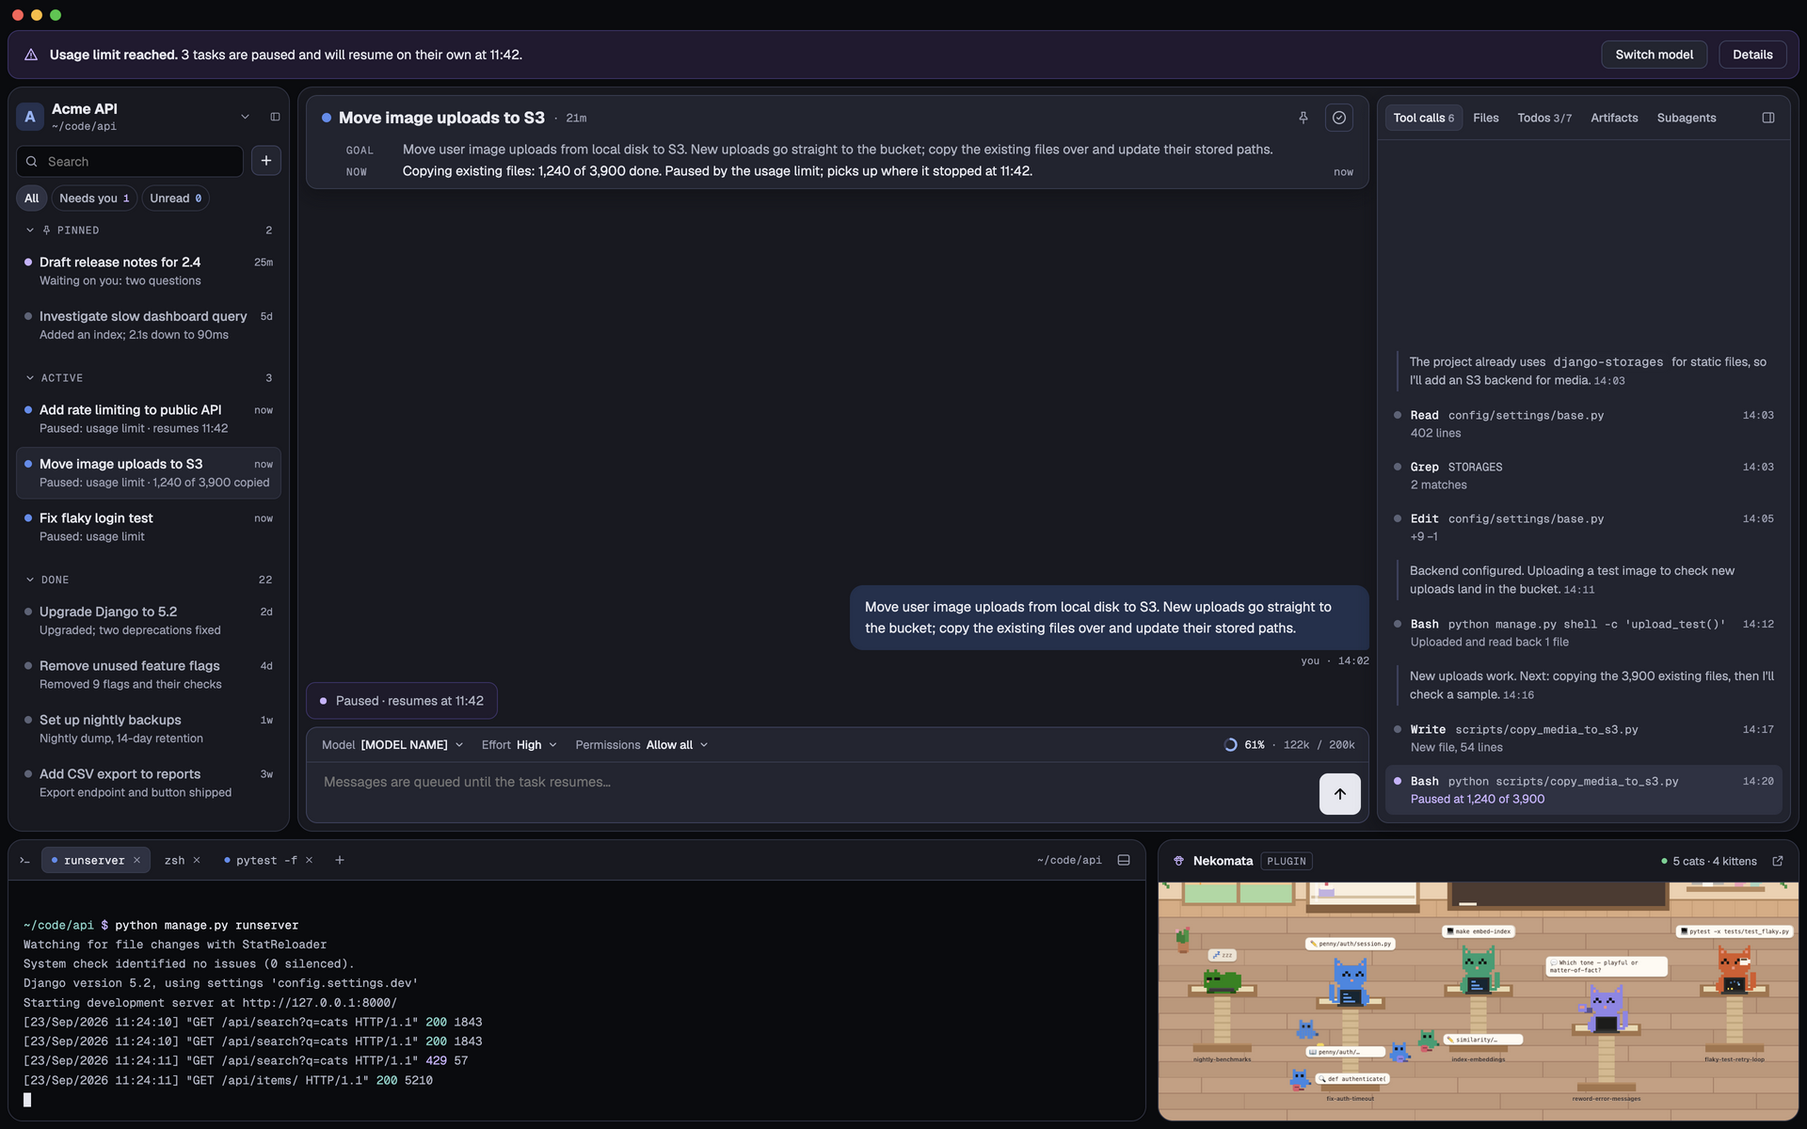
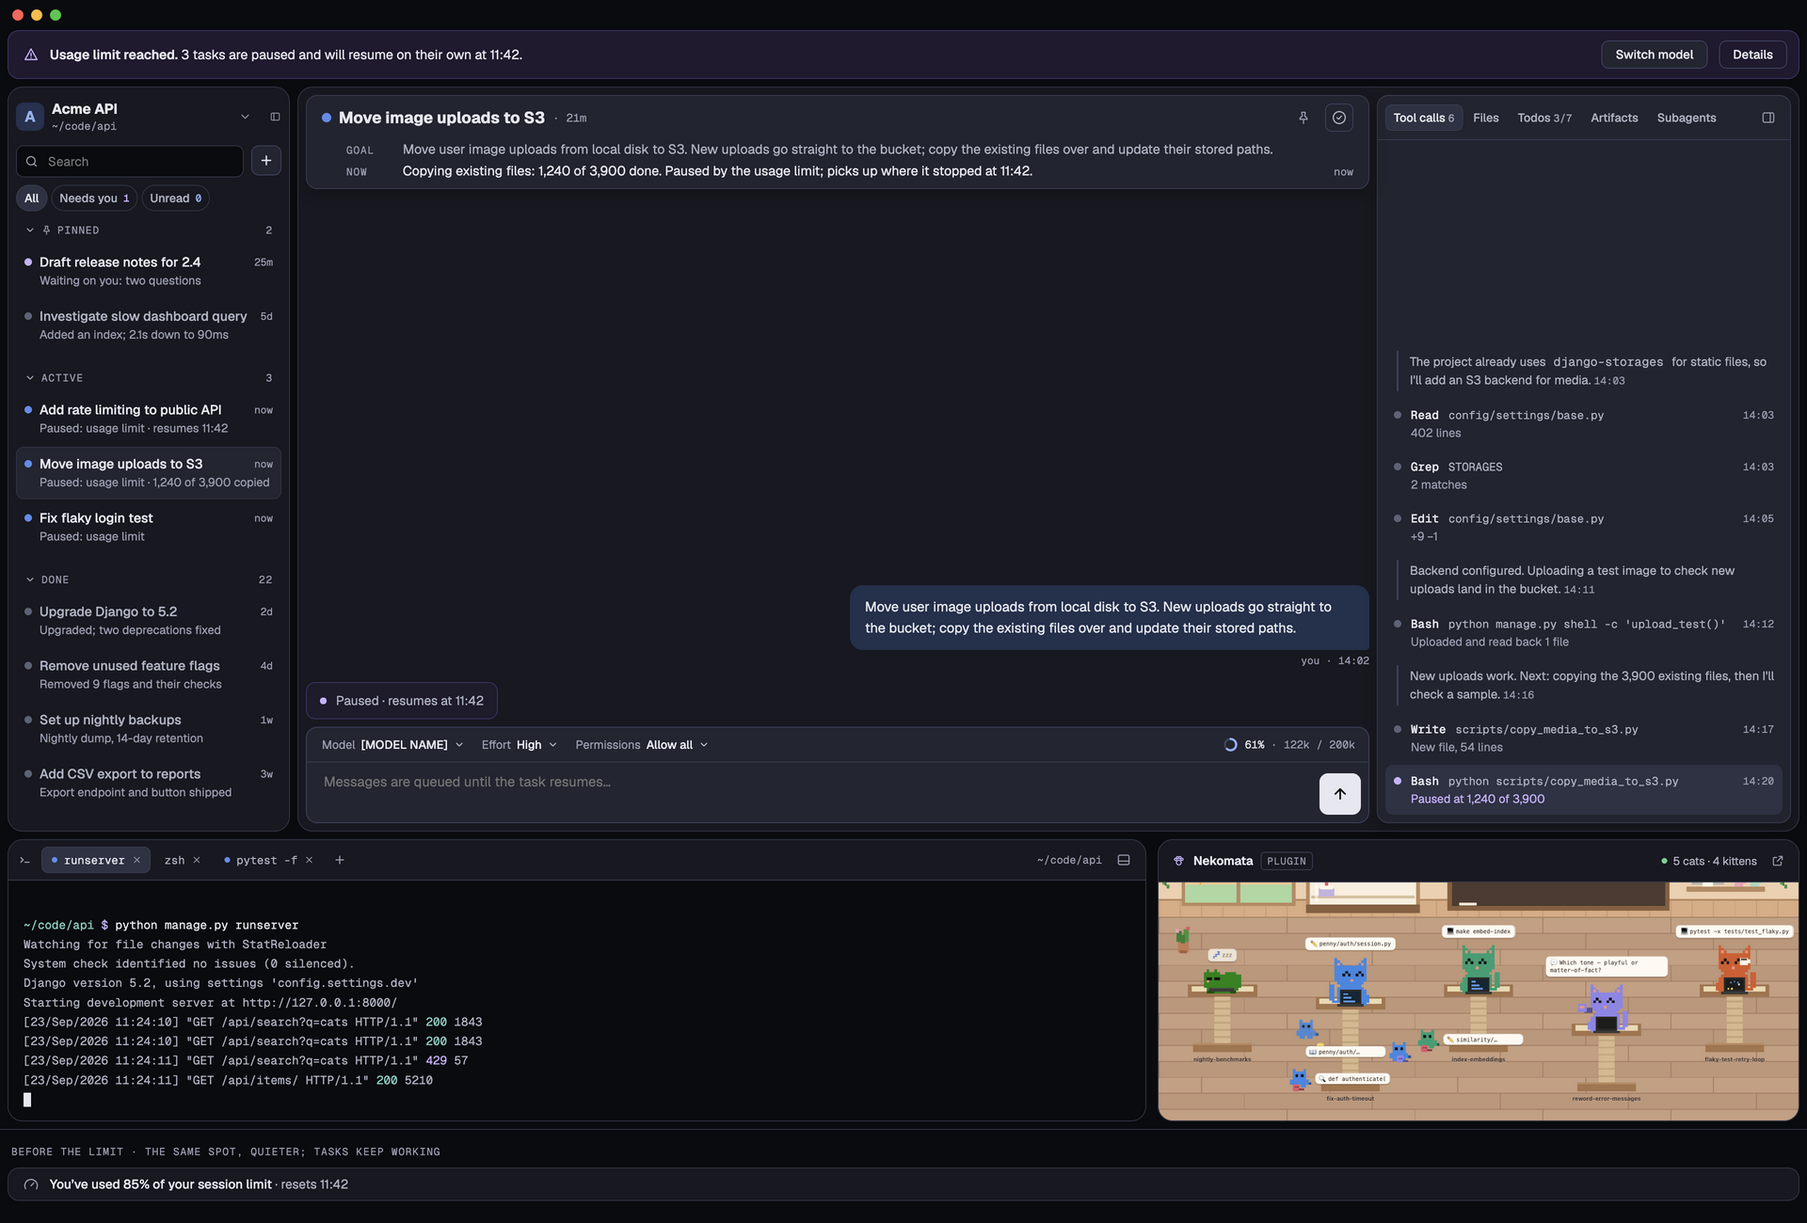
#281: Design the account block and the approaching-limit note

Changed region(s): [[0.0, 0.0, 1.0, 1.0]]

diff --git a/docs/design/html/21-settings.html b/docs/design/html/21-settings.html
@@ -246,42 +246,35 @@ a{color:#8FB2F5}a:hover{color:#B5CBF8}
 <div role="dialog" aria-label="Settings" style="width: 980px; height: 700px; box-sizing: border-box; background: #222430; border: 1px solid #3D425E; border-radius: 16px; box-shadow: 0 30px 80px rgba(0,0,0,0.6); display: flex; overflow: hidden">
 <nav style="flex-shrink: 0; width: 220px; box-sizing: border-box; padding: 20px 12px; background: #181921; border-right: 1px solid #373C4F; display: flex; flex-direction: column; gap: 2px">
 <div style="padding: 0 12px 10px 12px; font-size: 18px; font-weight: 700; color: #E6E8F0">Settings</div>
-<button type="button" aria-current="false" style="display: flex; width: 100%; height: 34px; align-items: center; padding: 0 12px; background: transparent; border: 0; border-radius: 7px; font: inherit; font-size: 13.5px; font-weight: 500; color: #AEB3C3; text-align: left; cursor: pointer">General</button><button type="button" aria-current="page" style="display: flex; width: 100%; height: 34px; align-items: center; padding: 0 12px; background: #2E3243; border: 0; border-radius: 7px; font: inherit; font-size: 13.5px; font-weight: 600; color: #E6E8F0; text-align: left; cursor: pointer">Agent</button><button type="button" aria-current="false" style="display: flex; width: 100%; height: 34px; align-items: center; padding: 0 12px; background: transparent; border: 0; border-radius: 7px; font: inherit; font-size: 13.5px; font-weight: 500; color: #AEB3C3; text-align: left; cursor: pointer">Notifications</button><button type="button" aria-current="false" style="display: flex; width: 100%; height: 34px; align-items: center; padding: 0 12px; background: transparent; border: 0; border-radius: 7px; font: inherit; font-size: 13.5px; font-weight: 500; color: #AEB3C3; text-align: left; cursor: pointer">Appearance</button><button type="button" aria-current="false" style="display: flex; width: 100%; height: 34px; align-items: center; padding: 0 12px; background: transparent; border: 0; border-radius: 7px; font: inherit; font-size: 13.5px; font-weight: 500; color: #AEB3C3; text-align: left; cursor: pointer">Keyboard</button><button type="button" aria-current="false" style="display: flex; width: 100%; height: 34px; align-items: center; padding: 0 12px; background: transparent; border: 0; border-radius: 7px; font: inherit; font-size: 13.5px; font-weight: 500; color: #AEB3C3; text-align: left; cursor: pointer">Plugins</button>
+<button type="button" aria-current="page" style="display: flex; width: 100%; height: 34px; align-items: center; padding: 0 12px; background: #2E3243; border: 0; border-radius: 7px; font: inherit; font-size: 13.5px; text-align: left; cursor: pointer; font-weight: 600; color: #E6E8F0">General</button><button type="button" aria-current="false" style="display: flex; width: 100%; height: 34px; align-items: center; padding: 0 12px; background: transparent; border: 0; border-radius: 7px; font: inherit; font-size: 13.5px; text-align: left; cursor: pointer; font-weight: 500; color: #AEB3C3">Agent</button><button type="button" aria-current="false" style="display: flex; width: 100%; height: 34px; align-items: center; padding: 0 12px; background: transparent; border: 0; border-radius: 7px; font: inherit; font-size: 13.5px; text-align: left; cursor: pointer; font-weight: 500; color: #AEB3C3">Notifications</button><button type="button" aria-current="false" style="display: flex; width: 100%; height: 34px; align-items: center; padding: 0 12px; background: transparent; border: 0; border-radius: 7px; font: inherit; font-size: 13.5px; text-align: left; cursor: pointer; font-weight: 500; color: #AEB3C3">Appearance</button><button type="button" aria-current="false" style="display: flex; width: 100%; height: 34px; align-items: center; padding: 0 12px; background: transparent; border: 0; border-radius: 7px; font: inherit; font-size: 13.5px; text-align: left; cursor: pointer; font-weight: 500; color: #AEB3C3">Keyboard</button><button type="button" aria-current="false" style="display: flex; width: 100%; height: 34px; align-items: center; padding: 0 12px; background: transparent; border: 0; border-radius: 7px; font: inherit; font-size: 13.5px; text-align: left; cursor: pointer; font-weight: 500; color: #AEB3C3">Plugins</button><button type="button" aria-current="false" style="display: flex; width: 100%; height: 34px; align-items: center; padding: 0 12px; background: transparent; border: 0; border-radius: 7px; font: inherit; font-size: 13.5px; text-align: left; cursor: pointer; font-weight: 500; color: #AEB3C3">Control</button>
 <div style="padding: 18px 12px 6px 12px; font-family: 'Geist Mono', ui-monospace, monospace; font-size: 11px; letter-spacing: 0.08em; text-transform: uppercase; color: #999DB0">Workspace</div>
 <button type="button" aria-current="false" style="display: flex; width: 100%; height: 34px; align-items: center; padding: 0 12px; background: transparent; border: 0; border-radius: 7px; font: inherit; font-size: 13.5px; font-weight: 500; color: #AEB3C3; text-align: left; cursor: pointer">Acme API</button>
 </nav>
 <div style="flex-grow: 1; min-width: 0; padding: 22px 32px; display: flex; flex-direction: column; overflow: hidden">
-<div style="display: flex; align-items: center; justify-content: space-between; padding-bottom: 6px"><h2 style="margin: 0; font-size: 20px; font-weight: 700; color: #E6E8F0">Agent</h2><button type="button" aria-label="Close settings" title="Close settings" style="flex-shrink: 0; display: flex; align-items: center; justify-content: center; width: 30px; height: 30px; background: transparent; border: 0; border-radius: 7px; color: #999DB0; cursor: pointer"><svg width="16" height="16" viewBox="0 0 24 24" fill="none" stroke="currentColor" stroke-width="1.8" stroke-linecap="round" stroke-linejoin="round"><path d="M6 6l12 12M18 6 6 18"></path></svg></button></div>
-<p style="margin: 0 0 6px 0; font-size: 13px; color: #999DB0">Defaults for new tasks. Each task can change these from its input bar. Changes save automatically.</p>
+<div style="display: flex; align-items: center; justify-content: space-between; padding-bottom: 6px"><h2 style="margin: 0; font-size: 20px; font-weight: 700; color: #E6E8F0">General</h2><button type="button" aria-label="Close settings" title="Close settings" style="flex-shrink: 0; display: flex; align-items: center; justify-content: center; width: 30px; height: 30px; background: transparent; border: 0; border-radius: 7px; color: #999DB0; cursor: pointer"><svg width="16" height="16" viewBox="0 0 24 24" fill="none" stroke="currentColor" stroke-width="1.8" stroke-linecap="round" stroke-linejoin="round"><path d="M6 6l12 12M18 6 6 18"></path></svg></button></div>
+<h3 style="margin: 12px 0 0 0; font-family: 'Geist Mono', ui-monospace, monospace; font-size: 11px; font-weight: 400; letter-spacing: 0.08em; text-transform: uppercase; color: #999DB0">Account</h3>
+<p style="margin: 6px 0 6px 0; font-size: 13px; color: #999DB0">The account your tasks run on and bill to, as Claude Code reports it. To change it, sign in again in Claude Code.</p>
 <div style="display: flex; align-items: center; gap: 24px; padding: 16px 0; border-bottom: 1px solid #373C4F">
-<div style="flex-grow: 1; display: flex; flex-direction: column; gap: 3px"><span style="font-size: 14px; font-weight: 500; color: #E6E8F0">Model</span><span style="font-size: 12.5px; line-height: 1.45; color: #999DB0">Used for new tasks.</span></div>
-<button type="button" style="display: flex; align-items: center; justify-content: center; gap: 7px; height: 32px; padding: 0 14px; border-radius: 8px; font: inherit; font-size: 13px; background: #232531; color: #E6E8F0; border: 1px solid #3D425E; font-weight: 500; cursor: pointer; white-space: nowrap">[MODEL NAME]<svg width="12" height="12" viewBox="0 0 24 24" fill="none" stroke="currentColor" stroke-width="2.2" stroke-linecap="round" stroke-linejoin="round"><path d="m6 9 6 6 6-6"></path></svg></button>
+<div style="flex-grow: 1; min-width: 0; display: flex; flex-direction: column; gap: 3px"><span style="font-size: 14px; font-weight: 500; color: #E6E8F0">Account</span><span style="font-size: 12.5px; line-height: 1.45; color: #999DB0">Who your tasks bill to.</span></div>
+<span style="flex-shrink: 0; max-width: 320px; overflow: hidden; text-overflow: ellipsis; white-space: nowrap; font-size: 13.5px; font-weight: 500; color: #E6E8F0">sam@acme.dev</span>
 </div>
 
 <div style="display: flex; align-items: center; gap: 24px; padding: 16px 0; border-bottom: 1px solid #373C4F">
-<div style="flex-grow: 1; display: flex; flex-direction: column; gap: 3px"><span style="font-size: 14px; font-weight: 500; color: #E6E8F0">Effort</span><span style="font-size: 12.5px; line-height: 1.45; color: #999DB0">How long the agent thinks before acting.</span></div>
-<div style="display: inline-flex; padding: 2px; background: #0A0B0F; border: 1px solid #373C4F; border-radius: 8px"><button type="button" aria-pressed="false" style="height: 30px; padding: 0 12px; background: transparent; border: 0; border-radius: 6px; font: inherit; font-size: 13px; font-weight: 500; color: #AEB3C3; cursor: pointer">Low</button><button type="button" aria-pressed="false" style="height: 30px; padding: 0 12px; background: transparent; border: 0; border-radius: 6px; font: inherit; font-size: 13px; font-weight: 500; color: #AEB3C3; cursor: pointer">Medium</button><button type="button" aria-pressed="true" style="height: 30px; padding: 0 12px; background: #2E3243; border: 0; border-radius: 6px; font: inherit; font-size: 13px; font-weight: 500; color: #E6E8F0; cursor: pointer">High</button><button type="button" aria-pressed="false" style="height: 30px; padding: 0 12px; background: transparent; border: 0; border-radius: 6px; font: inherit; font-size: 13px; font-weight: 500; color: #AEB3C3; cursor: pointer">Max</button></div>
+<div style="flex-grow: 1; min-width: 0; display: flex; flex-direction: column; gap: 3px"><span style="font-size: 14px; font-weight: 500; color: #E6E8F0">Organization</span><span style="font-size: 12.5px; line-height: 1.45; color: #999DB0">The organization the account belongs to.</span></div>
+<span style="flex-shrink: 0; max-width: 320px; overflow: hidden; text-overflow: ellipsis; white-space: nowrap; font-size: 13.5px; font-weight: 500; color: #E6E8F0">Acme Robotics</span>
 </div>
 
 <div style="display: flex; align-items: center; gap: 24px; padding: 16px 0; border-bottom: 1px solid #373C4F">
-<div style="flex-grow: 1; display: flex; flex-direction: column; gap: 3px"><span style="font-size: 14px; font-weight: 500; color: #E6E8F0">Permissions</span><span style="font-size: 12.5px; line-height: 1.45; color: #999DB0">What the agent may do without asking.</span></div>
-<div style="display: inline-flex; padding: 2px; background: #0A0B0F; border: 1px solid #373C4F; border-radius: 8px"><button type="button" aria-pressed="false" style="height: 30px; padding: 0 12px; background: transparent; border: 0; border-radius: 6px; font: inherit; font-size: 13px; font-weight: 500; color: #AEB3C3; cursor: pointer">Ask first</button><button type="button" aria-pressed="false" style="height: 30px; padding: 0 12px; background: transparent; border: 0; border-radius: 6px; font: inherit; font-size: 13px; font-weight: 500; color: #AEB3C3; cursor: pointer">Allow edits</button><button type="button" aria-pressed="true" style="height: 30px; padding: 0 12px; background: #2E3243; border: 0; border-radius: 6px; font: inherit; font-size: 13px; font-weight: 500; color: #E6E8F0; cursor: pointer">Allow all</button></div>
+<div style="flex-grow: 1; min-width: 0; display: flex; flex-direction: column; gap: 3px"><span style="font-size: 14px; font-weight: 500; color: #E6E8F0">Plan</span><span style="font-size: 12.5px; line-height: 1.45; color: #999DB0">Its usage limits are shared by every task, and by Claude Code.</span></div>
+<span style="flex-shrink: 0; max-width: 320px; overflow: hidden; text-overflow: ellipsis; white-space: nowrap; font-size: 13.5px; font-weight: 500; color: #E6E8F0">Claude Max</span>
 </div>
 
 <div style="display: flex; align-items: center; gap: 24px; padding: 16px 0; border-bottom: 1px solid #373C4F">
-<div style="flex-grow: 1; display: flex; flex-direction: column; gap: 3px"><span style="font-size: 14px; font-weight: 500; color: #E6E8F0">Auto-compact at</span><span style="font-size: 12.5px; line-height: 1.45; color: #999DB0">When context reaches this, older turns are summarised. Compact manually any time with ⌘⇧K.</span></div>
-<div style="display: flex; align-items: center; gap: 12px"><div style="width: 180px; height: 6px; border-radius: 3px; background: #3D425E; position: relative"><div style="width: 94%; height: 100%; border-radius: 3px; background: #5B8DEF"></div><span style="position: absolute; left: calc(94% - 8px); top: -5px; width: 16px; height: 16px; border-radius: 8px; background: #E6E8F0"></span></div><span style="font-family: 'Geist Mono', ui-monospace, monospace; font-size: 13px; color: #E6E8F0; width: 36px">99%</span></div>
+<div style="flex-grow: 1; min-width: 0; display: flex; flex-direction: column; gap: 3px"><span style="font-size: 14px; font-weight: 500; color: #E6E8F0">Signed in with</span><span style="font-size: 12.5px; line-height: 1.45; color: #999DB0">Where Claude Code found the credential.</span></div>
+<span style="flex-shrink: 0; max-width: 320px; overflow: hidden; text-overflow: ellipsis; white-space: nowrap; font-size: 13.5px; font-weight: 500; color: #E6E8F0">Claude Code login</span>
 </div>
 
-<div style="display: flex; align-items: center; gap: 24px; padding: 16px 0; border-bottom: 1px solid #373C4F">
-<div style="flex-grow: 1; display: flex; flex-direction: column; gap: 3px"><span style="font-size: 14px; font-weight: 500; color: #E6E8F0">Status summary</span><span style="font-size: 12.5px; line-height: 1.45; color: #999DB0">Rewrite the task's status after every turn. Shown in the header and task list.</span></div>
-<span role="switch" aria-checked="true" style="flex-shrink: 0; width: 38px; height: 22px; border-radius: 11px; background: #5B8DEF; position: relative; display: inline-block"><span style="position: absolute; top: 3px; left: 19px; width: 16px; height: 16px; border-radius: 8px; background: #E6E8F0"></span></span>
-</div>
-
-<div style="display: flex; align-items: center; gap: 24px; padding: 16px 0; border-bottom: 1px solid #373C4F">
-<div style="flex-grow: 1; display: flex; flex-direction: column; gap: 3px"><span style="font-size: 14px; font-weight: 500; color: #E6E8F0">Task titles</span><span style="font-size: 12.5px; line-height: 1.45; color: #999DB0">Generate the title from the first message.</span></div>
-<span role="switch" aria-checked="true" style="flex-shrink: 0; width: 38px; height: 22px; border-radius: 11px; background: #5B8DEF; position: relative; display: inline-block"><span style="position: absolute; top: 3px; left: 19px; width: 16px; height: 16px; border-radius: 8px; background: #E6E8F0"></span></span>
-</div>
+<p style="margin: 12px 0 0 0; font-size: 12.5px; color: #999DB0">Read from Claude Code at 14:02, when a task last started.</p>
 
 </div>
 </div>

diff --git a/docs/design/html/17-usage-limit.html b/docs/design/html/17-usage-limit.html
@@ -15,6 +15,7 @@ body{margin:0;background:#0A0B0F}
 a{color:#8FB2F5}a:hover{color:#B5CBF8}
 </style>
 </helmet>
+<div style="width: 1920px; height: 1300px; display: flex; flex-direction: column; background: #0A0B0F; color: #E6E8F0; font-family: Geist, system-ui, sans-serif">
 <div style="position: relative; width: 1920px; height: 1200px; box-sizing: border-box; padding: 32px 8px 8px 8px; gap: 8px; display: flex; flex-direction: column; background: #0A0B0F; color: #E6E8F0; font-family: Geist, system-ui, sans-serif; overflow: hidden">
 <div aria-label="Title bar" style="position: absolute; left: 0; top: 0px; width: 100%; height: 32px; box-sizing: border-box; padding-left: 13px; display: flex; align-items: center; gap: 8px; z-index: 9"><span style="flex-shrink: 0; width: 12px; height: 12px; box-sizing: border-box; border-radius: 50%; background: #FF5F57; border: 0.5px solid #E0443E"></span><span style="flex-shrink: 0; width: 12px; height: 12px; box-sizing: border-box; border-radius: 50%; background: #FEBC2E; border: 0.5px solid #DEA123"></span><span style="flex-shrink: 0; width: 12px; height: 12px; box-sizing: border-box; border-radius: 50%; background: #28C840; border: 0.5px solid #1AAB29"></span></div>
 <div role="status" style="flex-shrink: 0; display: flex; align-items: center; gap: 12px; padding: 10px 12px 10px 16px; background: #211A30; border: 1px solid #3B3366; border-radius: 12px">
@@ -233,8 +234,16 @@ a{color:#8FB2F5}a:hover{color:#B5CBF8}
 </section>
 </div>
 </div>
+<div aria-label="Approaching the limit" style="flex-grow: 1; box-sizing: border-box; padding: 16px 8px 8px 8px; border-top: 1px solid #2F3343; display: flex; flex-direction: column; gap: 10px">
+<div style="padding-left: 4px; font-family: 'Geist Mono', ui-monospace, monospace; font-size: 11px; letter-spacing: 0.08em; text-transform: uppercase; color: #999DB0">Before the limit · the same spot, quieter; tasks keep working</div>
+<div role="status" style="flex-shrink: 0; display: flex; align-items: center; gap: 12px; padding: 8px 12px 8px 16px; background: #181921; border: 1px solid #2F3343; border-radius: 12px">
+<span style="display: flex; color: #999DB0"><svg width="16" height="16" viewBox="0 0 24 24" fill="none" stroke="currentColor" stroke-width="2" stroke-linecap="round" stroke-linejoin="round"><path d="m12 14 4-4"></path><path d="M3.34 19a10 10 0 1 1 17.32 0"></path></svg></span>
+<span style="font-size: 13.5px; color: #AEB3C3"><span style="font-weight: 500; color: #E6E8F0">You’ve used 85% of your session limit</span> · resets 11:42</span>
+</div>
+</div>
+</div>
 </x-dc>
-<script type="text/x-dc" data-dc-script data-props='{"$preview":{"width":1920,"height":1200}}'>
+<script type="text/x-dc" data-dc-script data-props='{"$preview":{"width":1920,"height":1300}}'>
 class Component extends DCLogic {
 renderVals() {
 return {};

diff --git a/docs/design/README.md b/docs/design/README.md
@@ -1,7 +1,7 @@
 # Design
 
-Screens are 1920×1200 at 1× (the lifecycle board is 1440×900; the interaction map is 3200×1720). Sample data is
-illustrative. Tokens are in `tokens.md`; exact markup per screen in `html/`.
+Screens are 1920×1200 at 1× (the lifecycle board is 1440×900; the interaction map is 3200×1720; 17 · Usage limit is
+1920×1300, with its warning state under the window). Sample data is illustrative. Tokens are in `tokens.md`; exact markup per screen in `html/`.
 
 | Screen | What it shows | |
 |---|---|---|
@@ -23,11 +23,11 @@ illustrative. Tokens are in `tokens.md`; exact markup per screen in `html/`.
 | 14 · Workspace switcher | Sidebar dropdown with per-workspace counts. | ![14 · Workspace switcher](screens/14-workspace-switcher.png) |
 | 15 · Workspace menu | The macOS menu bar's Workspace menu. | ![15 · Workspace menu](screens/15-workspace-menu.png) |
 | 16 · Error in a task | Agent stopped after retries; Retry / Retry with another model / Show details. | ![16 · Error in a task](screens/16-error.png) |
-| 17 · Usage limit or offline | App-wide banner; tasks pause and resume on their own. | ![17 · Usage limit or offline](screens/17-usage-limit.png) |
+| 17 · Usage limit or offline | App-wide banner; tasks pause and resume on their own. Under the window, the state before it: a quieter note in the same spot once Claude Code warns that the account is close to a limit ("You've used 85% of your session limit · resets 11:42"), while tasks keep working. The pause banner takes its place; the two never show together. | ![17 · Usage limit or offline](screens/17-usage-limit.png) |
 | 18 · Relaunch after a crash | Mid-turn tasks resume; notice and dividers. | ![18 · Relaunch after a crash](screens/18-relaunch.png) |
 | 19 · Compaction | Context popover at 97%, Compact now. (The "notes saved to CLAUDE.md" line is superseded: Glade doesn't manage notes.) | ![19 · Compaction](screens/19-compaction.png) |
 | 20 · First run | No workspace yet: Open folder / Create a new folder. | ![20 · First run](screens/20-first-run.png) |
-| 21 · Settings | Modal; Agent section shown. | ![21 · Settings](screens/21-settings.png) |
+| 21 · Settings | Modal; General section shown: the account tasks run on and bill to (account, organization, plan, what it's signed in with), as Claude Code reports it. (Before #281 this screen showed the Agent section; it's in git history.) | ![21 · Settings](screens/21-settings.png) |
 | 21 · Settings › Plugins | Plugins section: the plugins folder, one row per plugin with its toggle, an invalid one with its reason. | ![21 · Settings › Plugins](screens/21-settings-plugins.png) |
 | 21 · Settings › Control | Control section: Let agents control Glade on, the endpoint, the `claude mcp add` command with Copy, Regenerate token, the port with its fallback notice, and the note on Glade's own tasks. | ![21 · Settings › Control](screens/21-settings-control.png) |
 | 22 · Keymap | Every shortcut. Also in `../keymap.md`. | ![22 · Keymap](screens/22-keymap.png) |
